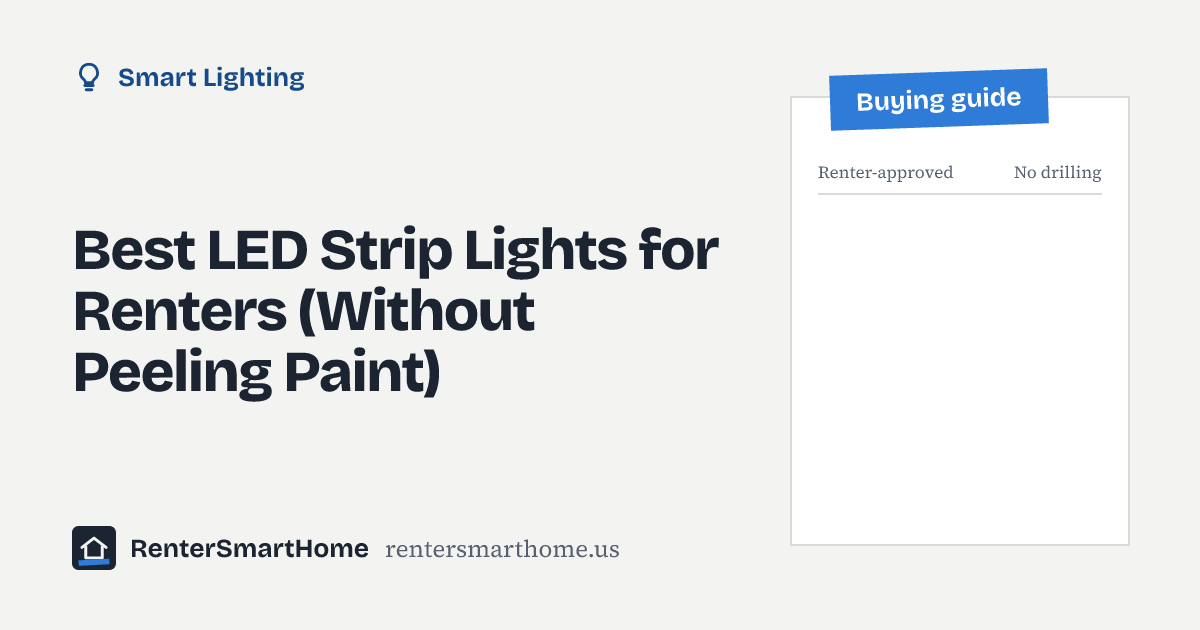
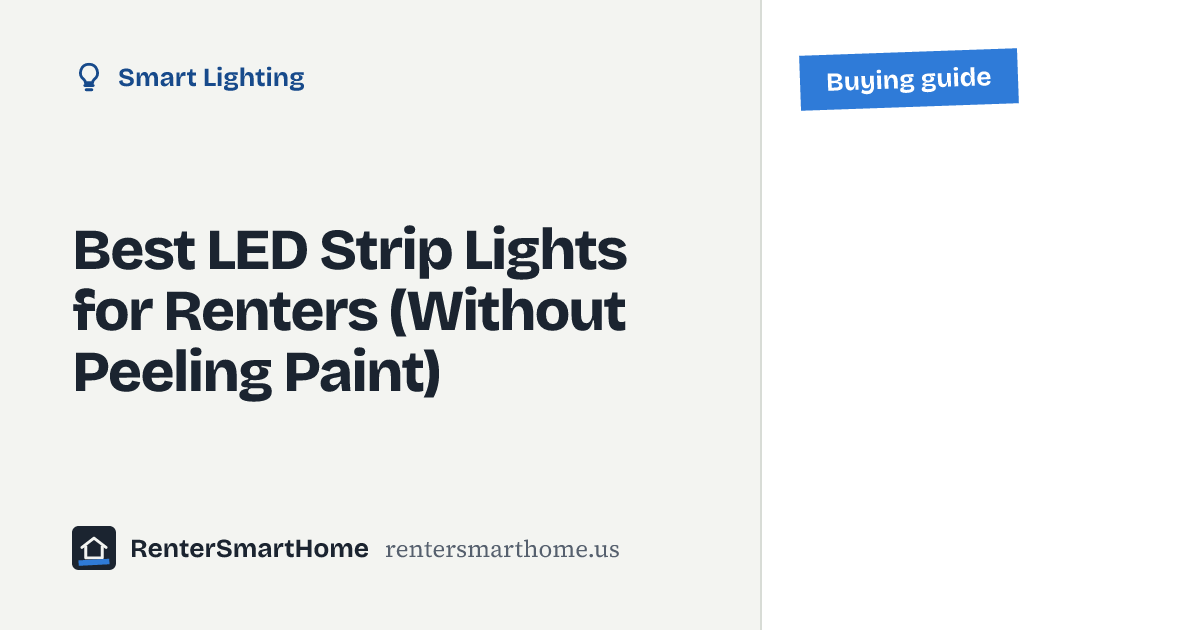
Article header: seamless split design, product sits on the image's white right half (no separate card)
Claude-Session: https://claude.ai/code/session_01TD7XAAbqJRP3B3BmqRVTG4

diff --git a/src/styles/global.css b/src/styles/global.css
@@ -407,8 +407,8 @@ h3 { font-size: var(--s1); letter-spacing: -.01em; }
 /* Article header: one image. The branded header graphic (title on the left, an
    empty card on the right) with the real Amazon product photo placed in the card. */
 .hero-composite { margin: 24px 0 0; max-width: 860px; }
-.hc-frame { position: relative; aspect-ratio: 1200 / 630; border: 1px solid var(--rule); border-radius: var(--r-box); overflow: hidden; background: var(--drywall); }
+.hc-frame { position: relative; aspect-ratio: 1200 / 630; border: 1px solid var(--rule); display: block; border-radius: var(--r-box); overflow: hidden; background: var(--drywall); }
 .hc-base { position: absolute; inset: 0; width: 100%; height: 100%; }
-.hc-product { position: absolute; left: 67.9%; top: 32.5%; width: 24.2%; height: 50%; display: flex; align-items: center; justify-content: center; }
+.hc-product { position: absolute; left: 66.5%; top: 21%; width: 30.5%; height: 70%; display: flex; align-items: center; justify-content: center; }
 .hc-product img { max-width: 100%; max-height: 100%; width: auto; height: auto; object-fit: contain; }
 .hero-composite figcaption { padding: 8px 2px 0; font-family: var(--text); font-size: .88rem; color: var(--slate); }
